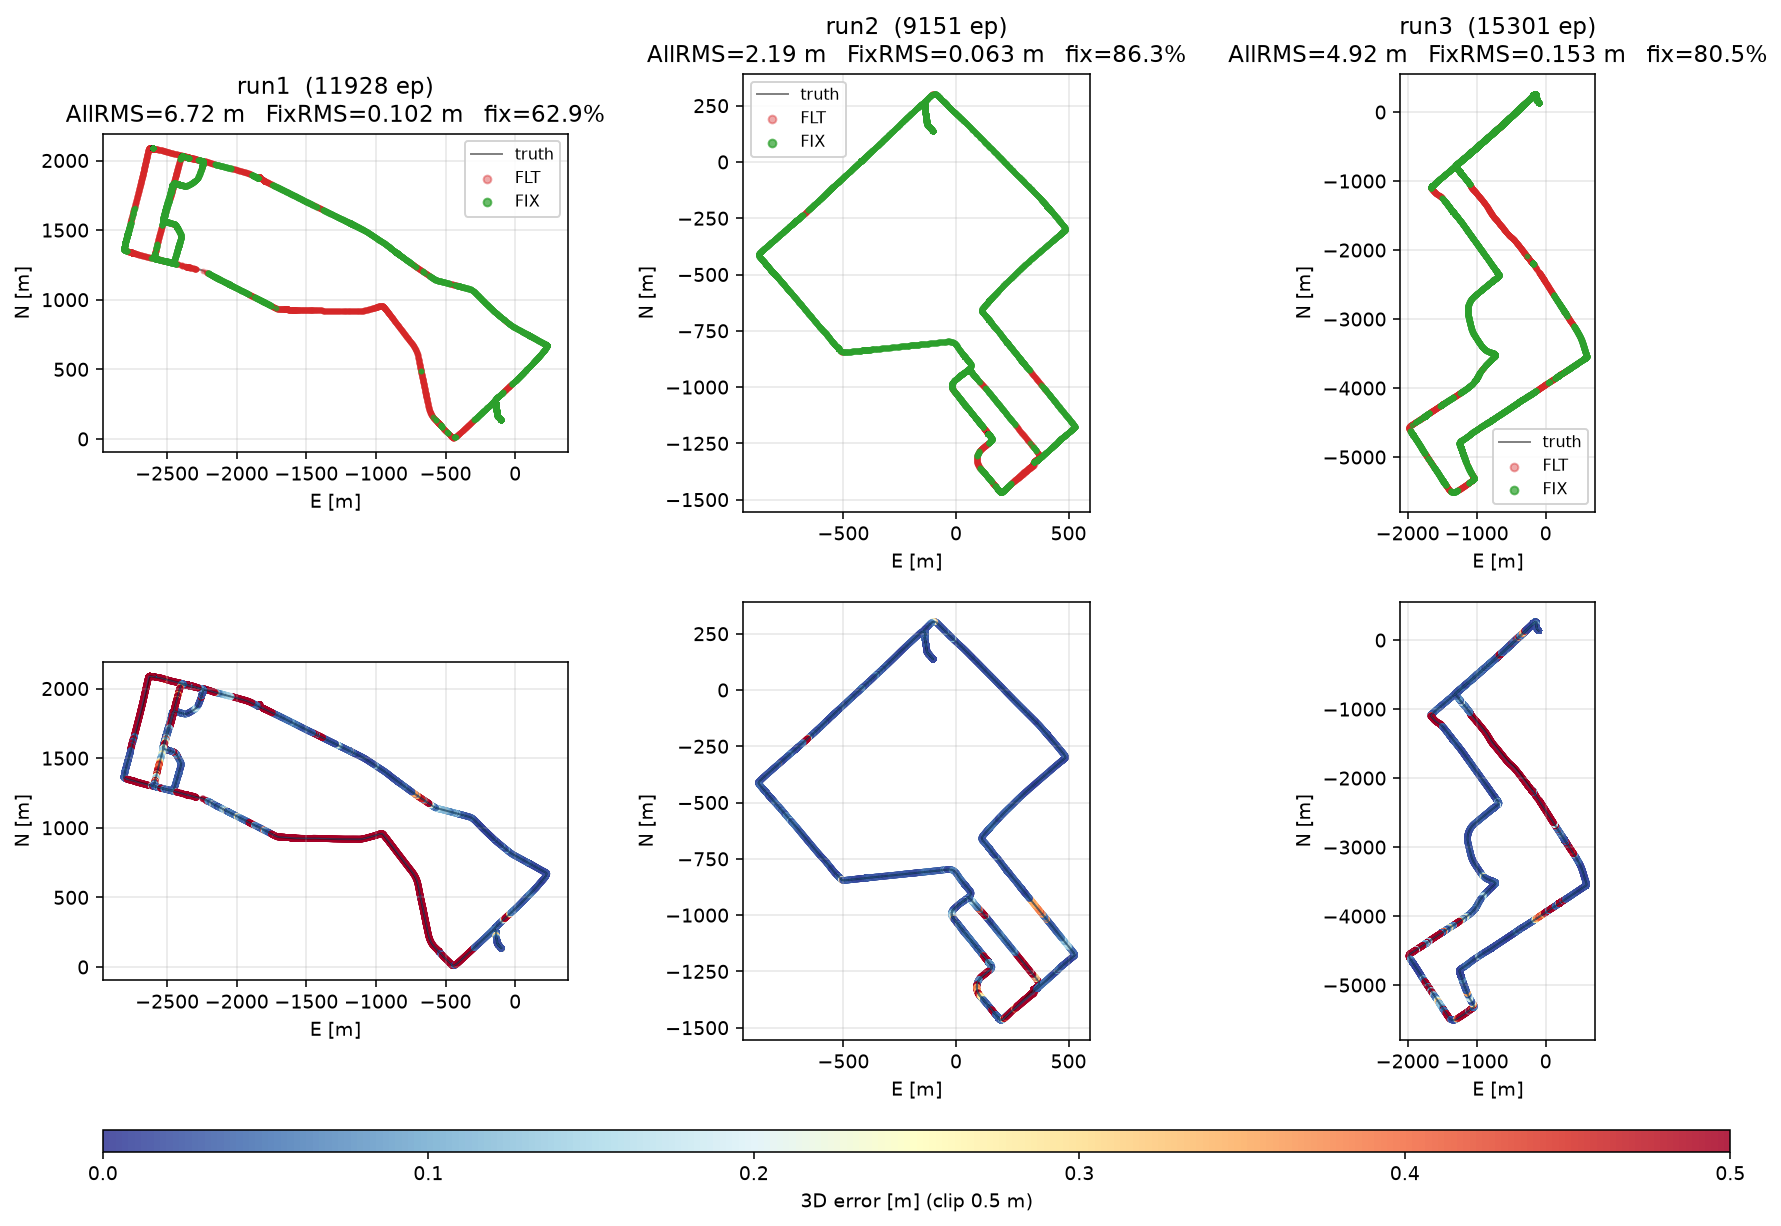
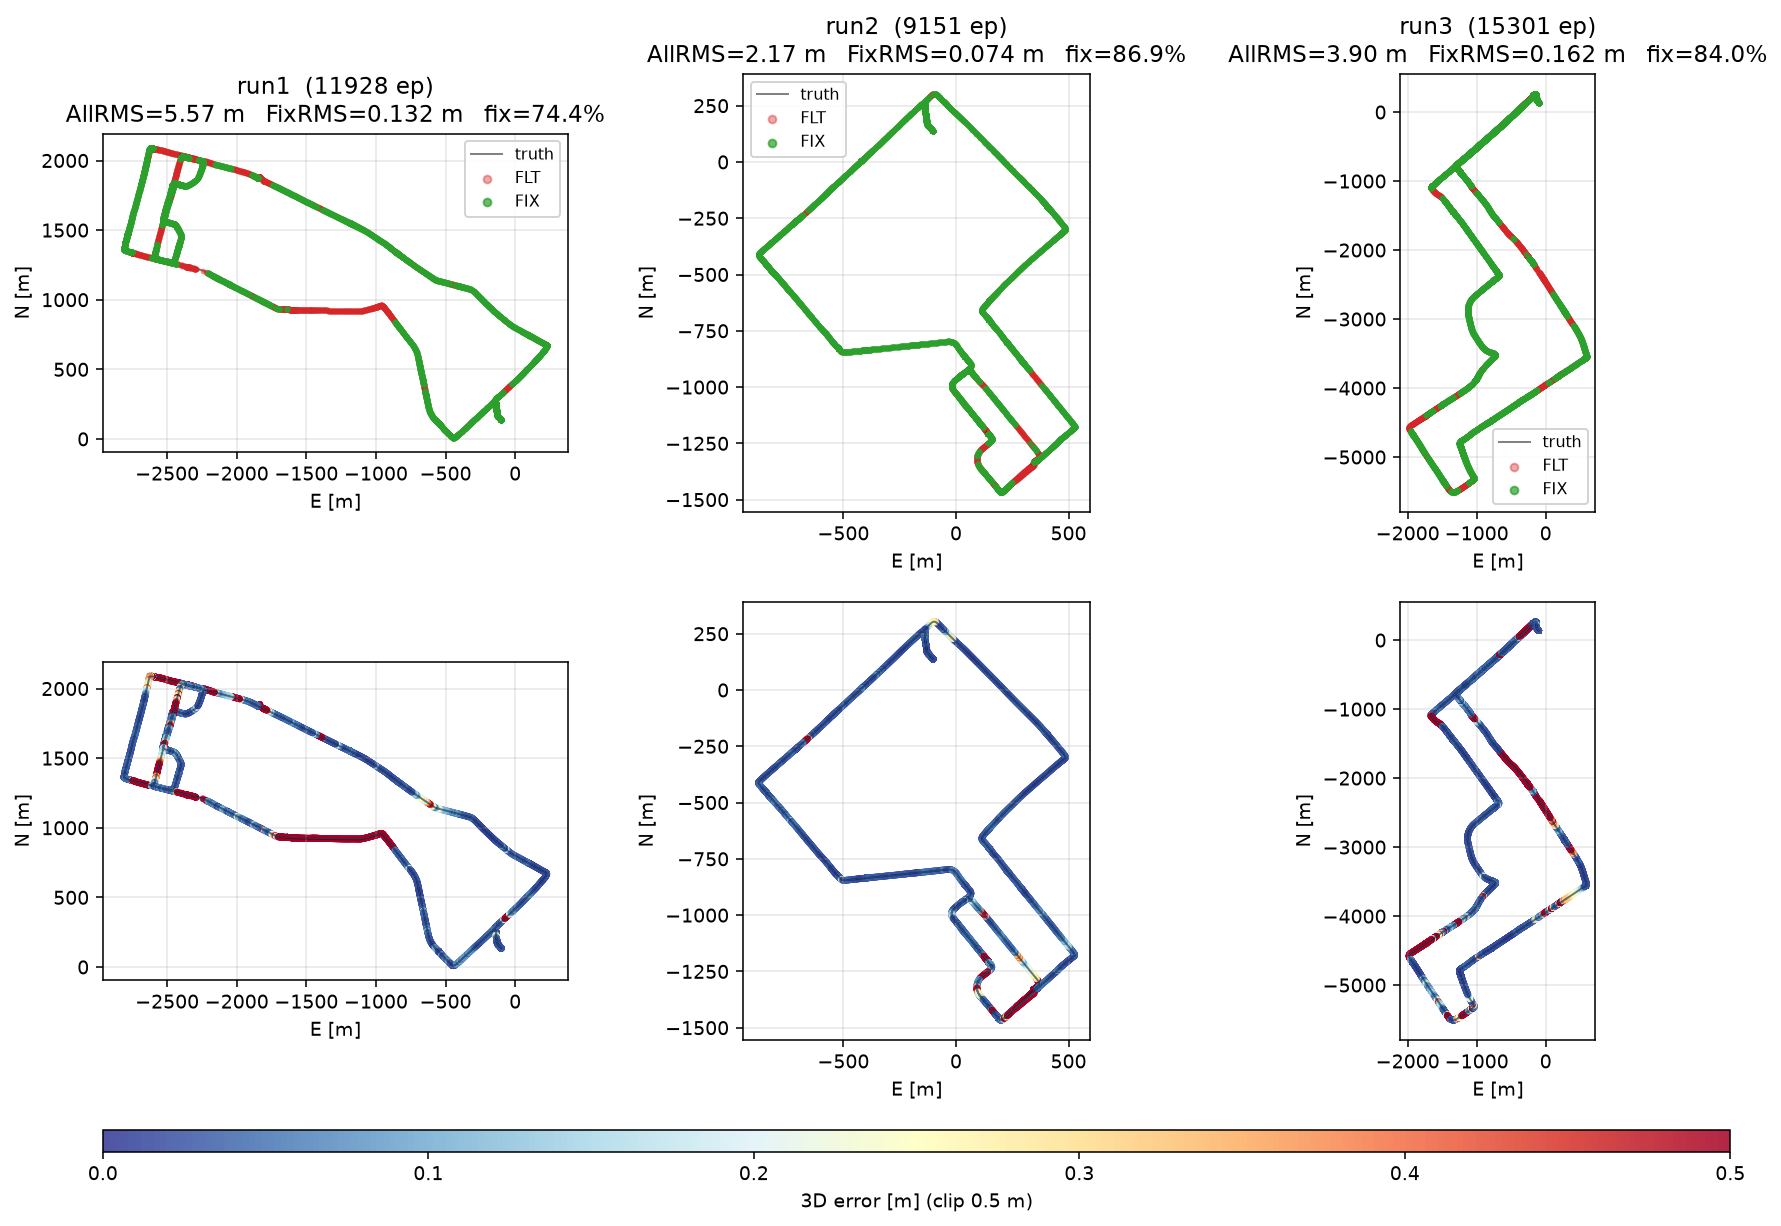
feat(ar): add armode=2 DD integer BetweenFactorDouble fix-and-hold, update README (#82)

diff --git a/src/gnss_fgo/ar/__init__.py b/src/gnss_fgo/ar/__init__.py
@@ -1,5 +1,8 @@
 """Integer ambiguity resolution (pure LAMBDA + optional partial AR)."""
 
+import gtsam
+
+from ..utils import huber_noise, sorted_amb_items
 from . import problem as ar_problem
 from .ambiguity_resolver import AmbiguityResolver
 
@@ -7,6 +10,23 @@ __all__ = ['ar_problem', 'AmbiguityResolver', 'run_ar']
 
 _FFRT_MIN_RATIO = 1.5  # Teunissen FFRT lower clamp
 _FFRT_MAX_RATIO = 3.0  # Teunissen FFRT upper clamp (P_f = 0.1%)
+_SIGMA_HOLD_CYC = 0.01  # DD integer-hold factor sigma [cycles] (~2 mm)
+
+
+def _hold_fixed_dd(tc, amb_dict, res):
+    """Feed full-AR DD integer constraints back into the smoother."""
+    key_of = dict(sorted_amb_items(amb_dict))
+    est = tc.isam2.calculateEstimate()
+    hold_graph = gtsam.NonlinearFactorGraph()
+    noise = huber_noise(_SIGMA_HOLD_CYC, float(tc.cfg.huber_k))
+    for ref, tgt in res.pairs:
+        kr, kt = key_of.get(ref), key_of.get(tgt)
+        if kr is not None and kt is not None and est.exists(kr) and est.exists(kt):
+            b_int = float(round(res.fixed[ref] - res.fixed[tgt]))
+            hold_graph.add(gtsam.BetweenFactorDouble(kt, kr, b_int, noise))
+    if hold_graph.size() > 0:
+        tc.isam2.update(hold_graph, gtsam.Values(),
+                        gtsam.FixedLagSmootherKeyTimestampMap())
 
 
 def _resolve(tc, sat_list, amb_dict, allow_partial=False):
@@ -24,6 +44,8 @@ def _resolve(tc, sat_list, amb_dict, allow_partial=False):
     if res.nb <= 0:
         return 0, None
     xa = ar_problem.fixed_state(tc, problem, res)
+    if tc.nav.armode >= 2 and res.dropped == 0:
+        _hold_fixed_dd(tc, amb_dict, res)
     return res.nb, xa
 
 

diff --git a/src/gnss_fgo/config.py b/src/gnss_fgo/config.py
@@ -23,9 +23,10 @@ class TcConfig:
     nhc_sigma_vert: float = 0.2    # body vertical velocity σ [m/s] (0 = off)
     nhc_lever: str = '0,0,0'       # IMU -> rear-axle lever arm [m]
 
-    # 3. Cycle slip, ambiguity random walk & sliding window (3)
+    # 3. Cycle slip, ambiguity random walk, AR & sliding window (4)
     thres_slip: float = 0.15       # geometry-free cycle slip threshold [m]
     amb_rw_sigma: float = 0.001    # carrier-phase ambiguity random walk σ [cyc/epoch]
+    armode: int = 2                # AR mode (0=off, 1=continuous, 2=fix-and-hold)
     fls_lag: float = 1.0           # FixedLagSmoother window [s]
 
     @classmethod

diff --git a/src/gnss_fgo/runner.py b/src/gnss_fgo/runner.py
@@ -64,7 +64,7 @@ class ImuGnssTc:
         self.base_pt = gtsam.Point3(*self.base_ecef)
 
     def _apply_nav_config(self):
-        self.nav.armode = 1
+        self.nav.armode = int(self.cfg.armode)
         self.nav.elmin = np.deg2rad(float(self.cfg.elmin_deg))
         self.nav.cnr_min = float(self.cfg.cnr_min_dbhz)
         self.nav.thresar = 3.0

diff --git a/README.md b/README.md
@@ -40,12 +40,12 @@ urban-Nagoya drives
 
 | run         | length    | AllRMS  | median  | FixRMS  | fix %  | <50 cm |
 |-------------|-----------|---------|---------|---------|--------|--------|
-| tokyo run1  | 11928 ep  |  6.72 m | 0.051 m | 0.10 m  | 62.9 % | 64.6 % |
-| tokyo run2  |  9151 ep  |  2.19 m | 0.034 m | 0.06 m  | 86.3 % | 88.1 % |
-| tokyo run3  | 15301 ep  |  4.92 m | 0.034 m | 0.15 m  | 80.5 % | 81.9 % |
-| nagoya run1 |  7602 ep  |  7.86 m | 0.131 m | 0.12 m  | 72.3 % | 75.4 % |
-| nagoya run2 |  9451 ep  |  4.92 m | 0.250 m | 0.29 m  | 55.4 % | 51.0 % |
-| nagoya run3 |  5201 ep  |  5.02 m | 0.657 m | 0.23 m  | 42.8 % | 44.0 % |
+| tokyo run1  | 11928 ep  |  5.57 m | 0.040 m | 0.13 m  | 74.4 % | 80.9 % |
+| tokyo run2  |  9151 ep  |  2.17 m | 0.034 m | 0.07 m  | 86.9 % | 91.5 % |
+| tokyo run3  | 15301 ep  |  3.90 m | 0.034 m | 0.16 m  | 84.0 % | 89.4 % |
+| nagoya run1 |  7602 ep  |  6.62 m | 0.134 m | 0.15 m  | 68.5 % | 71.1 % |
+| nagoya run2 |  9451 ep  |  4.21 m | 0.267 m | 0.37 m  | 60.8 % | 52.4 % |
+| nagoya run3 |  5201 ep  |  1.03 m | 0.137 m | 0.13 m  | 59.2 % | 79.2 % |
 
 
 ![tokyo_defaults](docs/tokyo_defaults.png)
